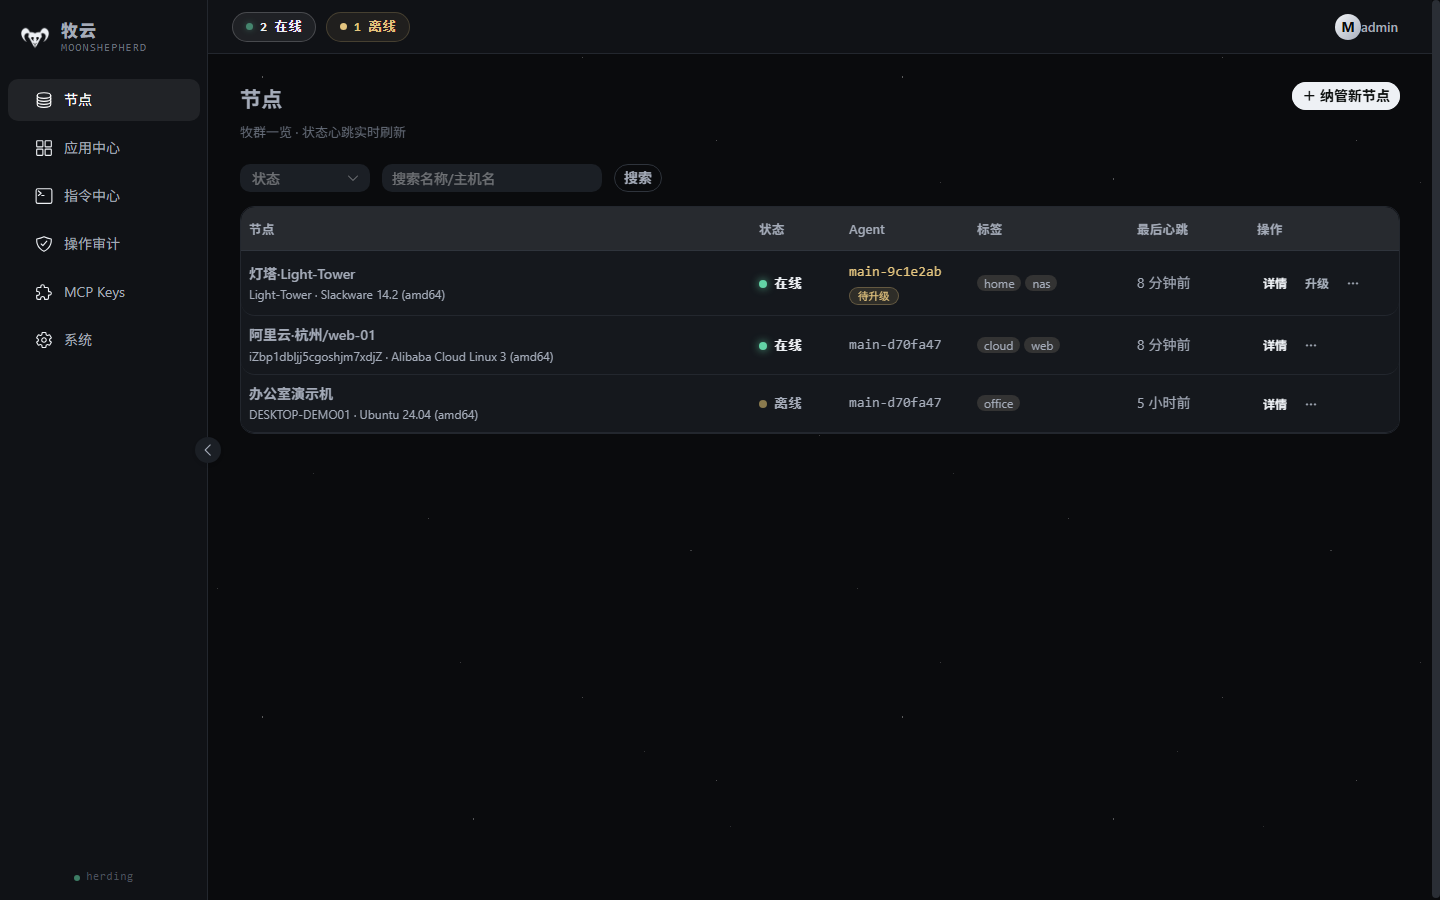
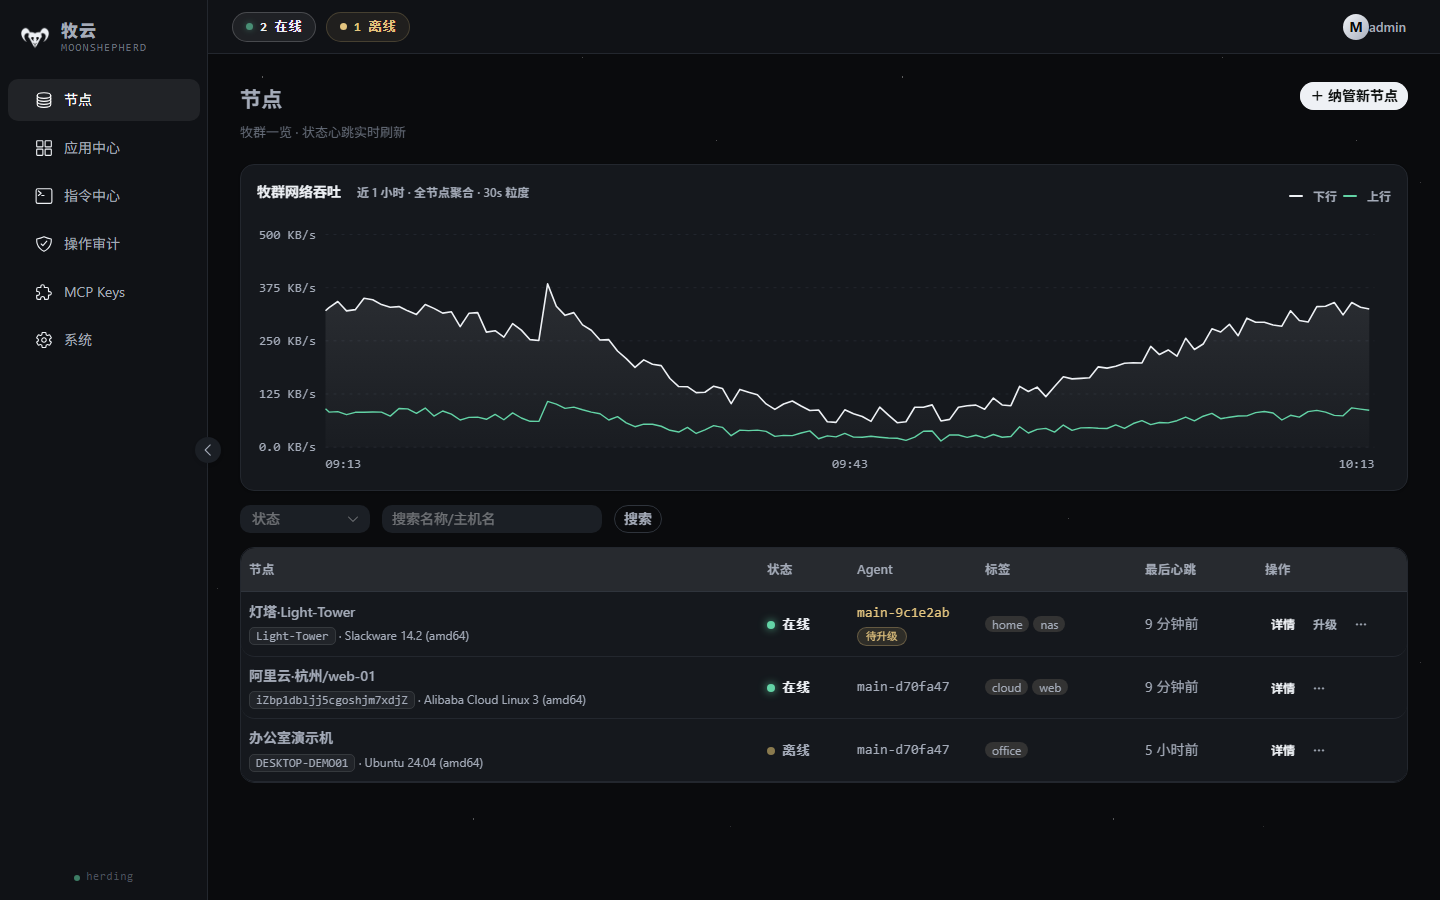
docs: 品牌资产与 README 产品页增强
- 头图按阅读器明暗主题自动切换:暗色用白剪影版,亮色用深剪影+白负空间细节版(512px 透明底,修复白形在浅色模式下不可辨)
- README 新增放牧场景表(NAS/云主机/多机房/开发机)与环境要求矩阵(面板/Agent/浏览器)
- 功能总览各域内嵌实景图:应用中心/指令中心/MCP Keys;节点总览图更新为含吞吐卡新版
- Web 终端条目同步新交互能力

diff --git a/README.md b/README.md
@@ -1,6 +1,9 @@
 <div align="center">
 
-<img src="web/src/assets/logo-64.png" width="88" alt="牧云 MoonShepherd">
+<picture>
+  <source media="(prefers-color-scheme: dark)" srcset="docs/brand/logo-dark.png">
+  <img src="docs/brand/logo-light.png" width="88" alt="牧云 MoonShepherd">
+</picture>
 
 # 牧云 MoonShepherd
 
@@ -23,11 +26,20 @@
 |---|---|
 | ![主面板](docs/screenshots/dashboard.png) | ![登录页](docs/screenshots/login.png) |
 
+## 🗺 放牧场景
+
+| 场景 | 牧云怎么帮你 |
+|---|---|
+| 🏠 **家庭 NAS / Unraid** | BusyBox 刺头也能管——Agent 以容器形态常驻，挂载 docker.sock 获得完整容器能力，不依赖 systemd |
+| ☁ **公网云主机** | 一条 `install.sh` 接入；Agent 只出不进、不开入站端口，面板侧前置 TLS 即可公网运营 |
+| 🏢 **多机房 / 异地节点** | 所有节点一块看板：心跳、指标、应用清单实时汇聚，跨节点指令与文件流转全程审计 |
+| 💻 **本地开发机** | Web 终端直达 PTY，浏览器里看日志、改配置、跑命令，不用来回切窗口 |
+
 ## 🐑 功能总览
 
 ### 节点牧群
 - **主动外连纳管**——Agent 以 Docker 容器 / 静态二进制 / systemd 等多种形态部署，主动 WSS 外连面板，**无需开放节点入站端口**；HMAC 挑战式认证
-- **心跳与指标**——CPU / 内存 / 磁盘 / 网络实时心跳，在线/离线状态即时刷新
+- **心跳与指标**——CPU / 内存 / 磁盘 / 网络实时心跳，在线/离线状态即时刷新；节点总览顶部还有**全牧群网络吞吐曲线**（近 1 小时跨节点聚合，悬停逐桶读数）
 - **一键接入**——面板发放注册 Token 后，目标节点上一条 `install.sh` 完成安装注册；Agent 自带**自更新**：旁路写入不动旧二进制、失败自动回滚、systemd / 裸跑形态自适应，防失联三重保障
 
 ### 应用感知与容器
@@ -36,12 +48,16 @@
 - **容器操作**——启动 / 停止 / 重启 / 拉取镜像（白名单，无删除），**容器日志实时流**回浏览器
 - **配置发现与纳管**——Nginx / Caddy 配置文件自动探测，纳管后在线编辑、版本化下发，自带校验与失败自动回滚
 
+![应用中心](docs/screenshots/apps.png)
+
 ### 运维与安全
-- **Web 终端**——浏览器直达节点 PTY，窗口尺寸自适应，全程审计
+- **Web 终端**——浏览器直达节点 PTY，vi / top 全可用；连接计时、一键全屏（Esc 退出）、常用命令速插条（只插入不执行）、会话溯源水印，输入全程审计
 - **指令中心**——跨节点远程命令执行，输出可查，全程审计
 - **文件管理器**——目录树浏览、分片上传下载、在线编辑、重命名 / 移动 / 删除，全部变更留痕
 - **操作审计**——只读、不可删除的全量操作审计
 - **公网级安全**——TLS 强制、分层威胁模型、最小权限 MCP 授权（见 [安全设计](docs/05-安全设计.md)）
+
+![指令中心](docs/screenshots/commands.png)
 
 ### 🤖 让 AI 替你放牧（MCP）
 内置 **MCP Server（Streamable HTTP）**，Claude Desktop 等 AI 客户端可安全操控牧云：
@@ -50,6 +66,8 @@
 - **两级授权**：能力（scope，决定"能做什么"）× 范围（节点 → 应用，决定"对哪些对象做"），随时编辑即时生效
 - **Key 管理**——面板创建 / 启停 / 吊销，高危能力（命令执行）创建时二次确认
 - **全程审计**——授权范围外的请求被拒绝并记录
+
+![MCP Keys](docs/screenshots/mcp.png)
 
 ## 🚀 快速开始
 
@@ -78,6 +96,14 @@ curl -fsSL http://<面板地址>/install.sh | bash -s -- --token rt_xxx
 ### Agent 自更新
 
 面板「节点」页可一键下发升级（按节点架构自动匹配二进制），Agent 端校验 sha256 → 旁路写入 → 平滑换身 → 失败自动回滚，升级期间不失联。
+
+### 环境要求
+
+| 组件 | 要求 |
+|---|---|
+| 面板 | 任意能跑 Docker 的 Linux 主机 / NAS（amd64 / arm64），SQLite 内嵌、无外部依赖 |
+| Agent | Linux amd64 / arm64 / armv7；标准发行版走 systemd，BusyBox 环境（Unraid 等）走 Docker 容器或裸二进制 |
+| 浏览器 | Chrome / Edge / Firefox / Safari 现代版本 |
 
 ## 🤖 AI 客户端接入（MCP）
 
